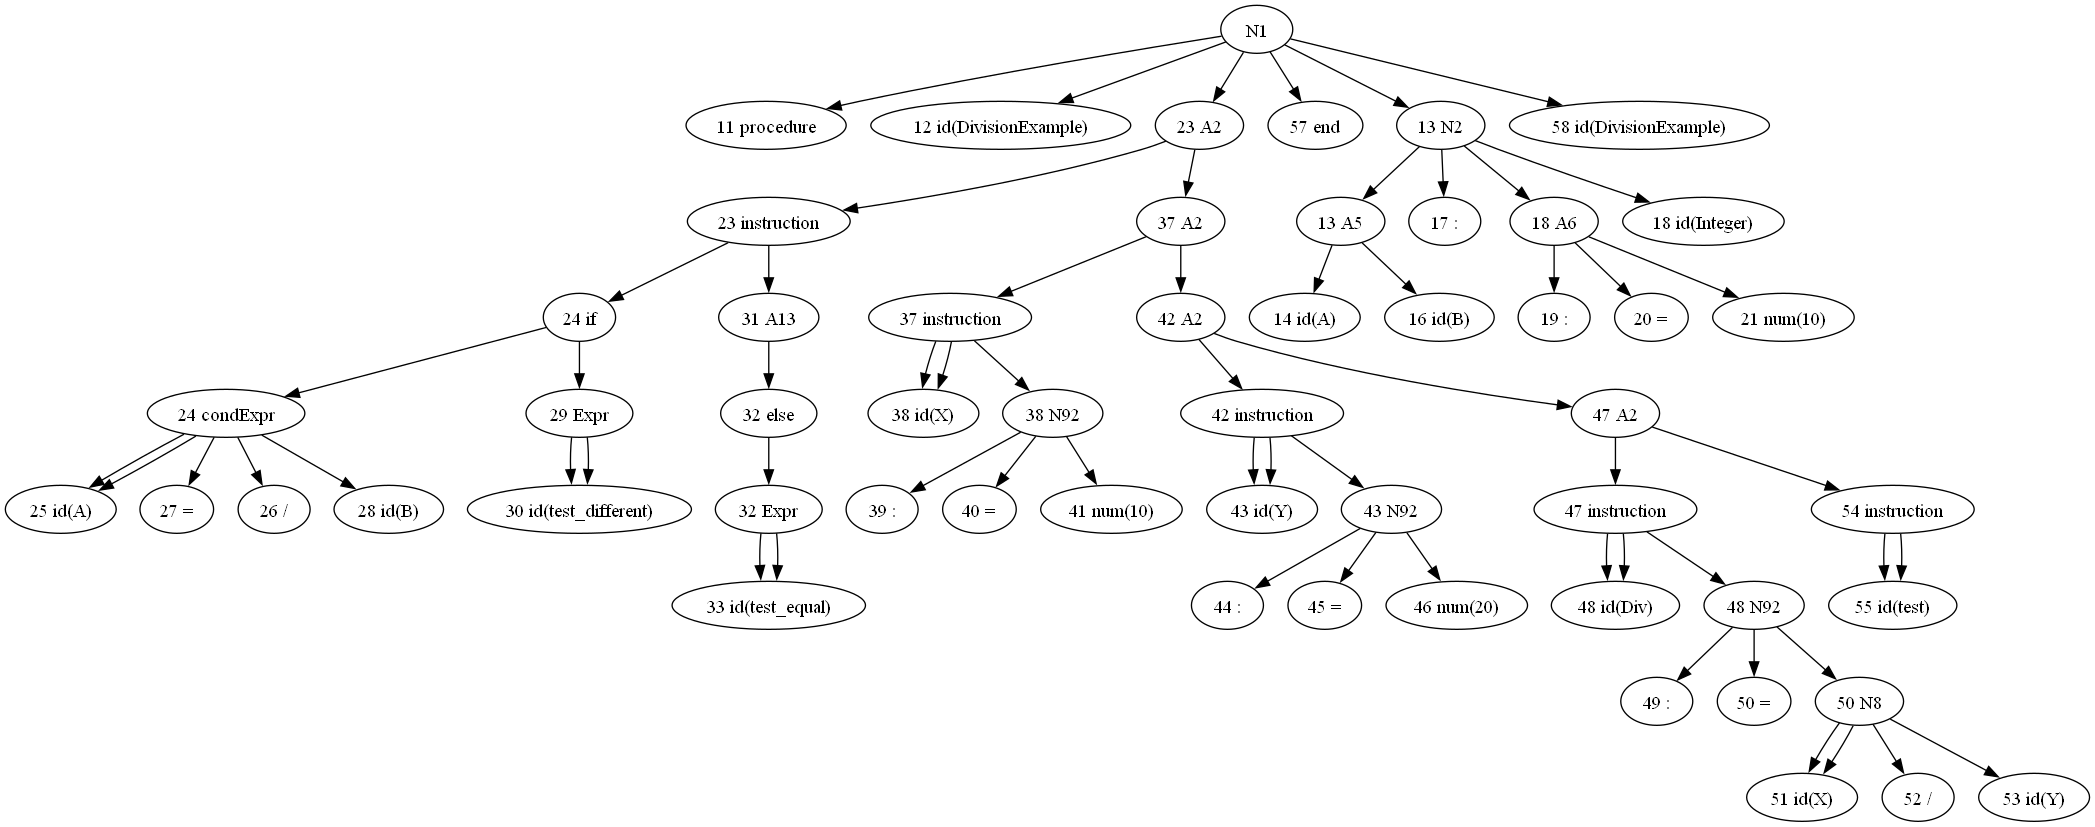
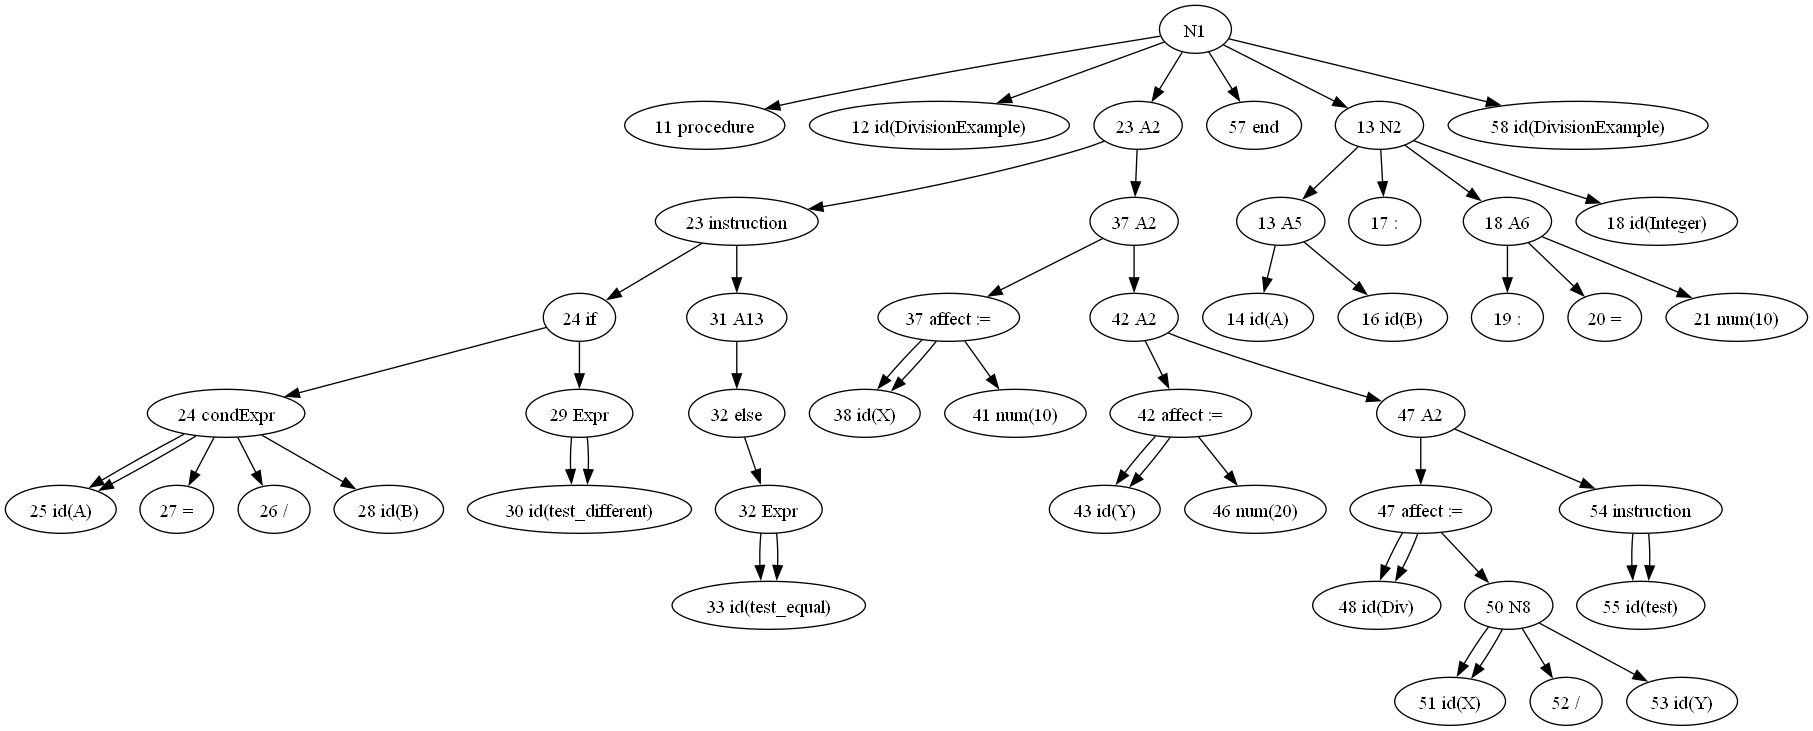
construction arbre affect

diff --git a/parseur/main_parseur.py b/parseur/main_parseur.py
@@ -112,6 +112,16 @@ def generate_final_AST(root):
 
     boucle_node(root)
     test_logique(root)
+    for node in PreOrderIter(root):
+        if node.name != "N1":
+            name = node.name.split(" ")
+            if name[1] == "instruction":
+                for i in range(0, len(node.children)):
+                    name = node.children[i].name.split(" ")
+                    if name[1] == "return":
+                        return_instr(node.parent)
+                    elif name[1] == "N92":
+                        affect(node)
     return root
 
 
@@ -123,6 +133,22 @@ def rename(node):
     name = node.name.split(" ")
     if name[1] in dico_N.keys():
         node.name = name[0] + " " + dico_N[name[1]]
+
+
+def affect(node):
+    name = node.name.split(" ")
+    node.name = name[0] + " " + "affect :="
+    for i in range(0, len(node.children)):
+        name = node.children[i].name.split(" ")
+        if name[1] == "N92":
+            list_children = node.children[i].children
+            node.children[i].name = node.children[i].children[len(node.children[i].children) - 1].name
+            node.children[i].children = list_children[len(node.children[i].children) - 1].children
+
+
+def return_instr(node):
+    name = node.name.split(" ")
+    node.name = name[0] + " " + "return"
 
 
 def boucle_node(root):
